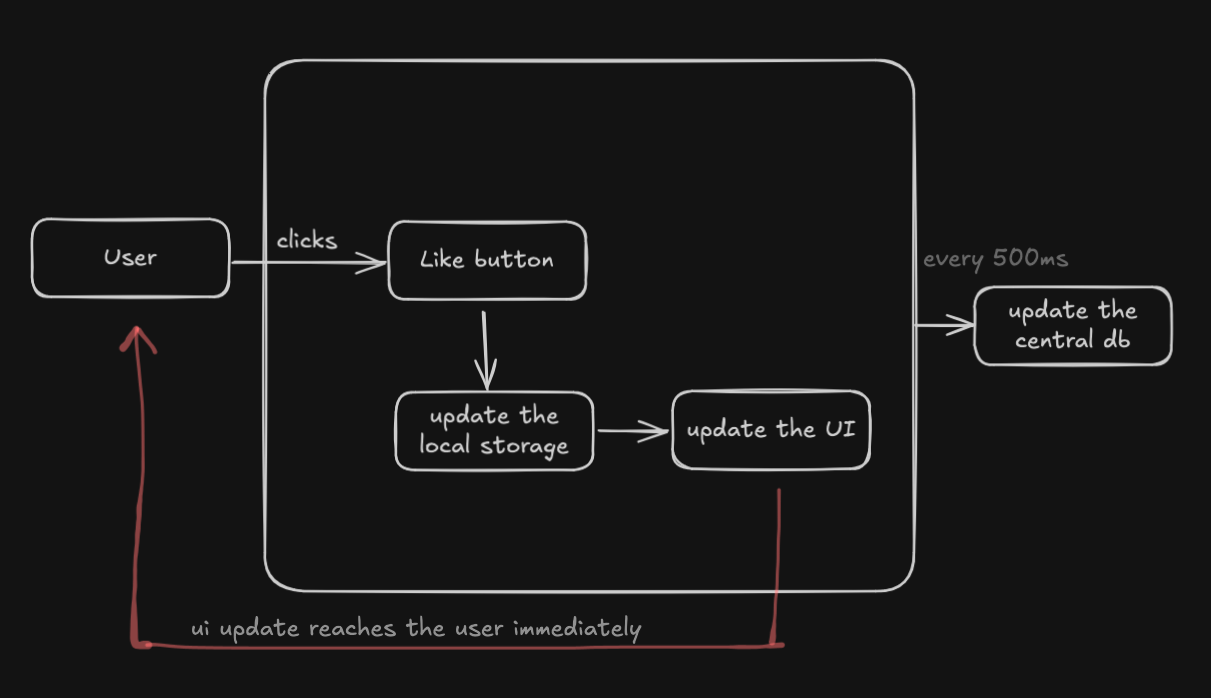
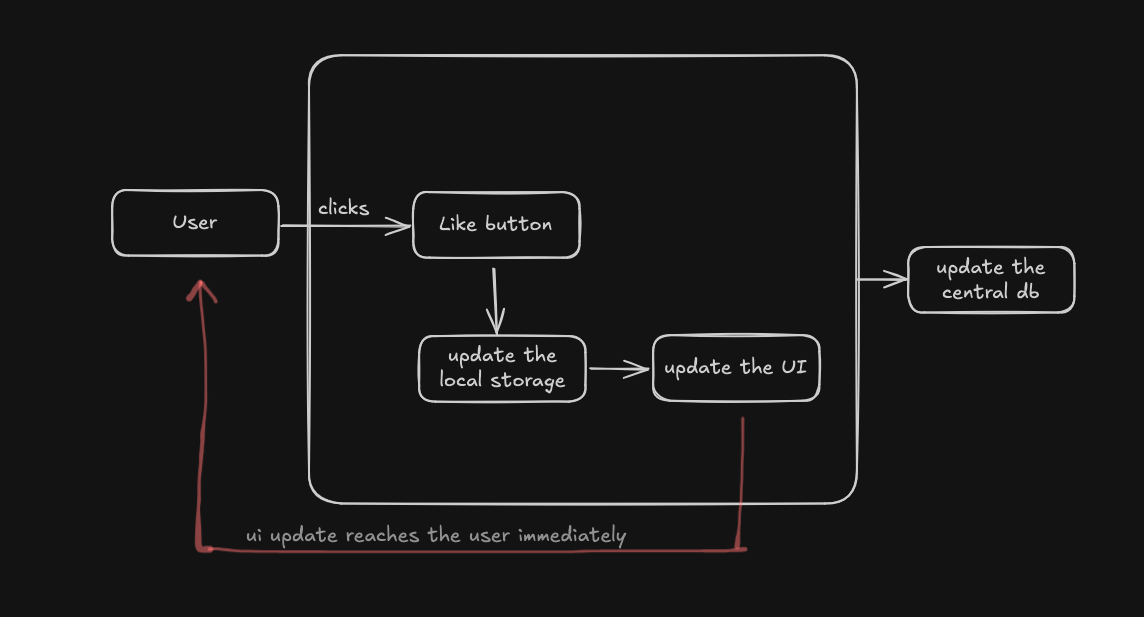
chore: updated latest blog

diff --git a/v2/my-garden/src/components/LikeButton/LikeButton.tsx b/v2/my-garden/src/components/LikeButton/LikeButton.tsx
@@ -38,10 +38,11 @@ export default function LikeButton({ id, type }: LikeButtonProps) {
     const updateServer = async (newLiked: boolean) => {
         // Did I make an actual change or not?
         const didIChangeSomething = localStorage.getItem('didIChangeSomething') === 'true';
-    
+
         if(!didIChangeSomething){
             return false;
         }
+
         localStorage.setItem('didIChangeSomething', 'false');
 
         // Send request to the server to update likes

diff --git a/v2/my-garden/writings/a-perfect-like-button.md b/v2/my-garden/writings/a-perfect-like-button.md
@@ -66,7 +66,7 @@ This is where things get a little complicated. Let me try my best to explain the
 
 ####
 
-So what we're gonna do is we're still gonna make the UI update immediately as we make an update to the localstorage but we're gonna make the update to the database only after a certain amount of time.
+So what we're gonna do is we're still gonna make the UI update immediately as we make an update to the localstorage and then also queue a server request to update the likes in the database. 
 
 #### 
 
